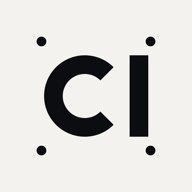
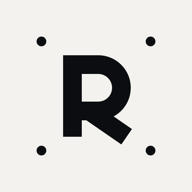
Renommage : Coach IA devient Rush (titre, PWA, en-tête, connexion, e-mails, docs), nouveau monogramme R (icônes de l'app et image des e-mails). Gardés : adresse GitHub Pages, dépôt, clés de stockage, Edge Function coach-ai

Changed region(s): [[0.2188, 0.2812, 0.7812, 0.75]]

diff --git a/supabase/email-templates/invite.html b/supabase/email-templates/invite.html
@@ -1,19 +1,19 @@
 <!doctype html>
-<html lang="fr"><head><meta charset="utf-8"><meta name="viewport" content="width=device-width,initial-scale=1"><title>Coach IA</title></head>
+<html lang="fr"><head><meta charset="utf-8"><meta name="viewport" content="width=device-width,initial-scale=1"><title>Rush</title></head>
 <body style="margin:0;padding:0;background:#0c0d10;">
 <table role="presentation" width="100%" cellpadding="0" cellspacing="0" border="0" bgcolor="#0c0d10" style="background:#0c0d10;font-family:Arial,Helvetica,sans-serif;"><tr><td align="center">
 <table role="presentation" width="560" cellpadding="0" cellspacing="0" border="0" style="width:100%;max-width:560px;">
-<tr><td style="padding:0;"><img src="https://yanisjaber.github.io/coach-ia/_mail/hero-2.png" width="560" alt="Coach IA : tous tes sports, un seul endroit" style="display:block;width:100%;height:auto;border:0;"></td></tr>
+<tr><td style="padding:0;"><img src="https://yanisjaber.github.io/coach-ia/_mail/hero-2.png" width="560" alt="Rush : tous tes sports, un seul endroit" style="display:block;width:100%;height:auto;border:0;"></td></tr>
 <tr><td bgcolor="#14161b" style="padding:34px 28px 10px;background:#14161b;">
  <h1 style="margin:0 0 12px;font-family:Impact,'Arial Black',Arial,sans-serif;font-style:italic;text-transform:uppercase;font-size:34px;line-height:1.05;font-weight:900;letter-spacing:.5px;color:#f3f2ee;">Tu es invité</h1>
- <p style="margin:0 0 26px;font-size:16px;line-height:1.55;color:#c9ced8;">On t'a invité à rejoindre Coach IA : tout ton entraînement, tous tes sports, au même endroit. Clique sur le bouton pour créer ton accès.</p>
+ <p style="margin:0 0 26px;font-size:16px;line-height:1.55;color:#c9ced8;">On t'a invité à rejoindre Rush : tout ton entraînement, tous tes sports, au même endroit. Clique sur le bouton pour créer ton accès.</p>
  <table role="presentation" cellpadding="0" cellspacing="0" border="0"><tr><td bgcolor="#4f8cff" style="background:#4f8cff;border-radius:6px;"><a href="{{ .ConfirmationURL }}" style="display:inline-block;padding:17px 32px;font-family:Impact,'Arial Black',Arial,sans-serif;font-size:18px;letter-spacing:2px;text-transform:uppercase;color:#0c0d10;text-decoration:none;">Accepter l'invitation &rarr;</a></td></tr></table>
  <p style="margin:26px 0 0;font-size:13px;line-height:1.5;color:#a2a7b3;">Le bouton ne marche pas ? Copie ce lien dans ton navigateur :<br><span style="word-break:break-all;color:#f3f2ee;">{{ .ConfirmationURL }}</span></p>
  <p style="margin:16px 0 26px;font-size:13px;line-height:1.5;color:#a2a7b3;">Tu ne connais pas cette invitation ? Ignore simplement cet e-mail.</p>
 </td></tr>
 <tr><td height="5" bgcolor="#4f8cff" style="height:5px;background:#4f8cff;font-size:0;line-height:0;">&nbsp;</td></tr>
 <tr><td align="center" style="padding:24px 24px 40px;font-size:12px;line-height:1.7;color:#868c9a;">
- Tu reçois cet e-mail parce qu'il concerne ton compte Coach IA ({{ .Email }}).<br>
+ Tu reçois cet e-mail parce qu'il concerne ton compte Rush ({{ .Email }}).<br>
  <a href="https://yanisjaber.github.io/coach-ia/#/confidentialite" style="color:#868c9a;text-decoration:underline;">Confidentialité</a> &nbsp;·&nbsp; <a href="mailto:yanisjaber23@gmail.com" style="color:#868c9a;text-decoration:underline;">Nous contacter</a><br>
- © 2026 Coach IA. Tous droits réservés.
+ © 2026 Rush. Tous droits réservés.
 </td></tr></table></td></tr></table></body></html>

diff --git a/supabase/email-templates/password-changed.html b/supabase/email-templates/password-changed.html
@@ -1,18 +1,18 @@
 <!doctype html>
-<html lang="fr"><head><meta charset="utf-8"><meta name="viewport" content="width=device-width,initial-scale=1"><title>Coach IA</title></head>
+<html lang="fr"><head><meta charset="utf-8"><meta name="viewport" content="width=device-width,initial-scale=1"><title>Rush</title></head>
 <body style="margin:0;padding:0;background:#0c0d10;">
 <table role="presentation" width="100%" cellpadding="0" cellspacing="0" border="0" bgcolor="#0c0d10" style="background:#0c0d10;font-family:Arial,Helvetica,sans-serif;"><tr><td align="center">
 <table role="presentation" width="560" cellpadding="0" cellspacing="0" border="0" style="width:100%;max-width:560px;">
-<tr><td style="padding:0;"><img src="https://yanisjaber.github.io/coach-ia/_mail/hero-2.png" width="560" alt="Coach IA : tous tes sports, un seul endroit" style="display:block;width:100%;height:auto;border:0;"></td></tr>
+<tr><td style="padding:0;"><img src="https://yanisjaber.github.io/coach-ia/_mail/hero-2.png" width="560" alt="Rush : tous tes sports, un seul endroit" style="display:block;width:100%;height:auto;border:0;"></td></tr>
 <tr><td bgcolor="#14161b" style="padding:34px 28px 10px;background:#14161b;">
  <h1 style="margin:0 0 12px;font-family:Impact,'Arial Black',Arial,sans-serif;font-style:italic;text-transform:uppercase;font-size:34px;line-height:1.05;font-weight:900;letter-spacing:.5px;color:#f3f2ee;">Mot de passe modifié</h1>
- <p style="margin:0 0 26px;font-size:16px;line-height:1.55;color:#c9ced8;">Le mot de passe de ton compte Coach IA vient d'être modifié.</p>
+ <p style="margin:0 0 26px;font-size:16px;line-height:1.55;color:#c9ced8;">Le mot de passe de ton compte Rush vient d'être modifié.</p>
  
  <p style="margin:16px 0 26px;font-size:13px;line-height:1.5;color:#a2a7b3;">Ce n'était pas toi ? Va sur l'écran de connexion, clique sur « Mot de passe oublié ? » pour en choisir un nouveau, puis écris-nous à yanisjaber23@gmail.com.</p>
 </td></tr>
 <tr><td height="5" bgcolor="#4f8cff" style="height:5px;background:#4f8cff;font-size:0;line-height:0;">&nbsp;</td></tr>
 <tr><td align="center" style="padding:24px 24px 40px;font-size:12px;line-height:1.7;color:#868c9a;">
- Tu reçois cet e-mail parce qu'il concerne ton compte Coach IA ({{ .Email }}).<br>
+ Tu reçois cet e-mail parce qu'il concerne ton compte Rush ({{ .Email }}).<br>
  <a href="https://yanisjaber.github.io/coach-ia/#/confidentialite" style="color:#868c9a;text-decoration:underline;">Confidentialité</a> &nbsp;·&nbsp; <a href="mailto:yanisjaber23@gmail.com" style="color:#868c9a;text-decoration:underline;">Nous contacter</a><br>
- © 2026 Coach IA. Tous droits réservés.
+ © 2026 Rush. Tous droits réservés.
 </td></tr></table></td></tr></table></body></html>

diff --git a/supabase/email-templates/email-changed.html b/supabase/email-templates/email-changed.html
@@ -1,18 +1,18 @@
 <!doctype html>
-<html lang="fr"><head><meta charset="utf-8"><meta name="viewport" content="width=device-width,initial-scale=1"><title>Coach IA</title></head>
+<html lang="fr"><head><meta charset="utf-8"><meta name="viewport" content="width=device-width,initial-scale=1"><title>Rush</title></head>
 <body style="margin:0;padding:0;background:#0c0d10;">
 <table role="presentation" width="100%" cellpadding="0" cellspacing="0" border="0" bgcolor="#0c0d10" style="background:#0c0d10;font-family:Arial,Helvetica,sans-serif;"><tr><td align="center">
 <table role="presentation" width="560" cellpadding="0" cellspacing="0" border="0" style="width:100%;max-width:560px;">
-<tr><td style="padding:0;"><img src="https://yanisjaber.github.io/coach-ia/_mail/hero-2.png" width="560" alt="Coach IA : tous tes sports, un seul endroit" style="display:block;width:100%;height:auto;border:0;"></td></tr>
+<tr><td style="padding:0;"><img src="https://yanisjaber.github.io/coach-ia/_mail/hero-2.png" width="560" alt="Rush : tous tes sports, un seul endroit" style="display:block;width:100%;height:auto;border:0;"></td></tr>
 <tr><td bgcolor="#14161b" style="padding:34px 28px 10px;background:#14161b;">
  <h1 style="margin:0 0 12px;font-family:Impact,'Arial Black',Arial,sans-serif;font-style:italic;text-transform:uppercase;font-size:34px;line-height:1.05;font-weight:900;letter-spacing:.5px;color:#f3f2ee;">Adresse e-mail modifiée</h1>
- <p style="margin:0 0 26px;font-size:16px;line-height:1.55;color:#c9ced8;">L'adresse e-mail de ton compte Coach IA vient d'être modifiée.</p>
+ <p style="margin:0 0 26px;font-size:16px;line-height:1.55;color:#c9ced8;">L'adresse e-mail de ton compte Rush vient d'être modifiée.</p>
  
  <p style="margin:16px 0 26px;font-size:13px;line-height:1.5;color:#a2a7b3;">Ce n'était pas toi ? Écris-nous tout de suite à yanisjaber23@gmail.com.</p>
 </td></tr>
 <tr><td height="5" bgcolor="#4f8cff" style="height:5px;background:#4f8cff;font-size:0;line-height:0;">&nbsp;</td></tr>
 <tr><td align="center" style="padding:24px 24px 40px;font-size:12px;line-height:1.7;color:#868c9a;">
- Tu reçois cet e-mail parce qu'il concerne ton compte Coach IA ({{ .Email }}).<br>
+ Tu reçois cet e-mail parce qu'il concerne ton compte Rush ({{ .Email }}).<br>
  <a href="https://yanisjaber.github.io/coach-ia/#/confidentialite" style="color:#868c9a;text-decoration:underline;">Confidentialité</a> &nbsp;·&nbsp; <a href="mailto:yanisjaber23@gmail.com" style="color:#868c9a;text-decoration:underline;">Nous contacter</a><br>
- © 2026 Coach IA. Tous droits réservés.
+ © 2026 Rush. Tous droits réservés.
 </td></tr></table></td></tr></table></body></html>

diff --git a/supabase/email-templates/confirm-signup.html b/supabase/email-templates/confirm-signup.html
@@ -1,9 +1,9 @@
 <!doctype html>
-<html lang="fr"><head><meta charset="utf-8"><meta name="viewport" content="width=device-width,initial-scale=1"><title>Coach IA</title></head>
+<html lang="fr"><head><meta charset="utf-8"><meta name="viewport" content="width=device-width,initial-scale=1"><title>Rush</title></head>
 <body style="margin:0;padding:0;background:#0c0d10;">
 <table role="presentation" width="100%" cellpadding="0" cellspacing="0" border="0" bgcolor="#0c0d10" style="background:#0c0d10;font-family:Arial,Helvetica,sans-serif;"><tr><td align="center">
 <table role="presentation" width="560" cellpadding="0" cellspacing="0" border="0" style="width:100%;max-width:560px;">
-<tr><td style="padding:0;"><img src="https://yanisjaber.github.io/coach-ia/_mail/hero-2.png" width="560" alt="Coach IA : tous tes sports, un seul endroit" style="display:block;width:100%;height:auto;border:0;"></td></tr>
+<tr><td style="padding:0;"><img src="https://yanisjaber.github.io/coach-ia/_mail/hero-2.png" width="560" alt="Rush : tous tes sports, un seul endroit" style="display:block;width:100%;height:auto;border:0;"></td></tr>
 <tr><td bgcolor="#14161b" style="padding:34px 28px 10px;background:#14161b;">
  <h1 style="margin:0 0 12px;font-family:Impact,'Arial Black',Arial,sans-serif;font-style:italic;text-transform:uppercase;font-size:34px;line-height:1.05;font-weight:900;letter-spacing:.5px;color:#f3f2ee;">Confirme ton compte</h1>
  <p style="margin:0 0 26px;font-size:16px;line-height:1.55;color:#c9ced8;">Course, vélo, natation, muscu : tout ton entraînement au même endroit. Confirme ton adresse e-mail pour activer ton compte.</p>
@@ -13,7 +13,7 @@
 </td></tr>
 <tr><td height="5" bgcolor="#4f8cff" style="height:5px;background:#4f8cff;font-size:0;line-height:0;">&nbsp;</td></tr>
 <tr><td align="center" style="padding:24px 24px 40px;font-size:12px;line-height:1.7;color:#868c9a;">
- Tu reçois cet e-mail parce qu'il concerne ton compte Coach IA ({{ .Email }}).<br>
+ Tu reçois cet e-mail parce qu'il concerne ton compte Rush ({{ .Email }}).<br>
  <a href="https://yanisjaber.github.io/coach-ia/#/confidentialite" style="color:#868c9a;text-decoration:underline;">Confidentialité</a> &nbsp;·&nbsp; <a href="mailto:yanisjaber23@gmail.com" style="color:#868c9a;text-decoration:underline;">Nous contacter</a><br>
- © 2026 Coach IA. Tous droits réservés.
+ © 2026 Rush. Tous droits réservés.
 </td></tr></table></td></tr></table></body></html>

diff --git a/supabase/email-templates/recovery.html b/supabase/email-templates/recovery.html
@@ -1,9 +1,9 @@
 <!doctype html>
-<html lang="fr"><head><meta charset="utf-8"><meta name="viewport" content="width=device-width,initial-scale=1"><title>Coach IA</title></head>
+<html lang="fr"><head><meta charset="utf-8"><meta name="viewport" content="width=device-width,initial-scale=1"><title>Rush</title></head>
 <body style="margin:0;padding:0;background:#0c0d10;">
 <table role="presentation" width="100%" cellpadding="0" cellspacing="0" border="0" bgcolor="#0c0d10" style="background:#0c0d10;font-family:Arial,Helvetica,sans-serif;"><tr><td align="center">
 <table role="presentation" width="560" cellpadding="0" cellspacing="0" border="0" style="width:100%;max-width:560px;">
-<tr><td style="padding:0;"><img src="https://yanisjaber.github.io/coach-ia/_mail/hero-2.png" width="560" alt="Coach IA : tous tes sports, un seul endroit" style="display:block;width:100%;height:auto;border:0;"></td></tr>
+<tr><td style="padding:0;"><img src="https://yanisjaber.github.io/coach-ia/_mail/hero-2.png" width="560" alt="Rush : tous tes sports, un seul endroit" style="display:block;width:100%;height:auto;border:0;"></td></tr>
 <tr><td bgcolor="#14161b" style="padding:34px 28px 10px;background:#14161b;">
  <h1 style="margin:0 0 12px;font-family:Impact,'Arial Black',Arial,sans-serif;font-style:italic;text-transform:uppercase;font-size:34px;line-height:1.05;font-weight:900;letter-spacing:.5px;color:#f3f2ee;">Nouveau mot de passe</h1>
  <p style="margin:0 0 26px;font-size:16px;line-height:1.55;color:#c9ced8;">Tu as demandé à changer ton mot de passe. Clique sur le bouton pour en choisir un nouveau (le lien est valable une heure).</p>
@@ -13,7 +13,7 @@
 </td></tr>
 <tr><td height="5" bgcolor="#4f8cff" style="height:5px;background:#4f8cff;font-size:0;line-height:0;">&nbsp;</td></tr>
 <tr><td align="center" style="padding:24px 24px 40px;font-size:12px;line-height:1.7;color:#868c9a;">
- Tu reçois cet e-mail parce qu'il concerne ton compte Coach IA ({{ .Email }}).<br>
+ Tu reçois cet e-mail parce qu'il concerne ton compte Rush ({{ .Email }}).<br>
  <a href="https://yanisjaber.github.io/coach-ia/#/confidentialite" style="color:#868c9a;text-decoration:underline;">Confidentialité</a> &nbsp;·&nbsp; <a href="mailto:yanisjaber23@gmail.com" style="color:#868c9a;text-decoration:underline;">Nous contacter</a><br>
- © 2026 Coach IA. Tous droits réservés.
+ © 2026 Rush. Tous droits réservés.
 </td></tr></table></td></tr></table></body></html>

diff --git a/app/src/lib/parametres/General.svelte b/app/src/lib/parametres/General.svelte
@@ -37,7 +37,7 @@
     if (export_.enCours) return;
     export_ = { enCours: true, message: '' };
     const r = await exporterMesDonnees(auth.session?.user?.id, auth.session?.user?.email || '');
-    telechargerJson(r.contenu, `coach-ia-mes-donnees-${new Date().toISOString().slice(0, 10)}.json`);
+    telechargerJson(r.contenu, `rush-mes-donnees-${new Date().toISOString().slice(0, 10)}.json`);
     export_ = {
       enCours: false,
       message: r.avertissements.length ? `Fichier téléchargé. Ces parties n'ont pas pu être lues : ${r.avertissements.join(', ')}.` : 'Fichier téléchargé.',
@@ -127,7 +127,7 @@
     </div>
   {:else}
     <form class="suppr-form" onsubmit={supprimer}>
-      <p class="suppr-texte"><strong>Action définitive.</strong> Ton compte, tes séances, ton sommeil, tes programmes, tes tests et tous tes réglages seront effacés, et l'accès de Coach IA à ton compte Strava sera retiré. Il n'y a aucun retour en arrière : pense à exporter tes données avant.</p>
+      <p class="suppr-texte"><strong>Action définitive.</strong> Ton compte, tes séances, ton sommeil, tes programmes, tes tests et tous tes réglages seront effacés, et l'accès de Rush à ton compte Strava sera retiré. Il n'y a aucun retour en arrière : pense à exporter tes données avant.</p>
       <label class="suppr-label" for="confirmer-suppression">Pour confirmer, tape <strong>SUPPRIMER</strong></label>
       <input id="confirmer-suppression" class="suppr-champ" type="text" autocomplete="off" autocapitalize="characters" spellcheck="false" bind:value={suppression.texte} />
       {#if suppression.message}<p class="suppr-erreur" role="alert">{suppression.message}</p>{/if}

diff --git a/app/src/routes/Connexion.svelte b/app/src/routes/Connexion.svelte
@@ -85,8 +85,8 @@
 <main class="connexion">
   <div class="gauche">
     <div class="marque">
-      <span class="logo titre">CI</span>
-      <span class="nom">Coach IA</span>
+      <span class="logo titre">R</span>
+      <span class="nom">Rush</span>
     </div>
     <h1 class="titre">Ton entraînement,<br />enfin lisible.</h1>
     <p class="accroche">Charge, forme, objectifs et records, pour tous tes sports, au même endroit.</p>
@@ -152,7 +152,7 @@
   {#snippet icone()}
     <svg width="38" height="38" viewBox="0 0 24 24" fill="none" stroke="currentColor" stroke-width="2.2" stroke-linecap="round" stroke-linejoin="round"><circle cx="12" cy="8" r="4" /><path d="M4.5 20c.8-4 3.7-6 7.5-6s6.7 2 7.5 6" /></svg>
   {/snippet}
-  <p class="pop-texte">L'adresse <span class="pop-email">{email}</span> est déjà inscrite sur Coach IA.</p>
+  <p class="pop-texte">L'adresse <span class="pop-email">{email}</span> est déjà inscrite sur Rush.</p>
   <p class="pop-note">Connecte-toi avec ton mot de passe. Tu l'as oublié ? On t'envoie un lien pour en choisir un nouveau.</p>
   <button type="button" class="pop-bouton" onclick={versConnexion}>Me connecter</button>
   <button type="button" class="pop-lien" onclick={versOubli}>Mot de passe oublié ?</button>

diff --git a/app/src/lib/data/export.js b/app/src/lib/data/export.js
@@ -42,13 +42,13 @@ async function lireTable(userId, table, colonnes, avertissements) {
 /** Rassemble les données de l'utilisateur. Renvoie { contenu, avertissements } (contenu = objet prêt à sérialiser). */
 export async function exporterMesDonnees(userId, email = '') {
   const avertissements = [];
-  const contenu = { application: 'Coach IA', exporte_le: new Date().toISOString(), compte: { email } };
+  const contenu = { application: 'Rush', exporte_le: new Date().toISOString(), compte: { email } };
   for (const [cle, table, colonnes] of TABLES) contenu[cle] = await lireTable(userId, table, colonnes, avertissements);
   return { contenu, avertissements };
 }
 
 /** Télécharge le contenu comme fichier JSON (le fichier reste sur l'appareil : rien n'est envoyé ailleurs). */
-export function telechargerJson(contenu, nom = 'coach-ia-mes-donnees.json') {
+export function telechargerJson(contenu, nom = 'rush-mes-donnees.json') {
   const blob = new Blob([JSON.stringify(contenu, null, 2)], { type: 'application/json' });
   const url = URL.createObjectURL(blob);
   const a = document.createElement('a');

diff --git a/app/index.html b/app/index.html
@@ -4,15 +4,15 @@
     <meta charset="utf-8" />
     <meta name="viewport" content="width=device-width, initial-scale=1, viewport-fit=cover" />
     <meta name="theme-color" content="#0C0D10" />
-    <meta name="description" content="Coach IA : entraînement, récupération et compétitions." />
+    <meta name="description" content="Rush : entraînement, récupération et compétitions." />
     <meta name="apple-mobile-web-app-capable" content="yes" />
     <meta name="mobile-web-app-capable" content="yes" />
-    <meta name="apple-mobile-web-app-title" content="Coach IA" />
+    <meta name="apple-mobile-web-app-title" content="Rush" />
     <meta name="apple-mobile-web-app-status-bar-style" content="black-translucent" />
     <link rel="manifest" href="/manifest.webmanifest" />
     <link rel="icon" type="image/svg+xml" href="/icone.svg" />
     <link rel="apple-touch-icon" href="/icone-apple-180.png" />
-    <title>Coach IA</title>
+    <title>Rush</title>
   </head>
   <body>
     <div id="app"></div>

diff --git a/app/src/lib/parametres/Confidentialite.svelte b/app/src/lib/parametres/Confidentialite.svelte
@@ -1,5 +1,5 @@
 <script>
-  // Texte de la politique de confidentialité : ce que Coach IA enregistre, où, qui y accède, et comment récupérer ou
+  // Texte de la politique de confidentialité : ce que Rush enregistre, où, qui y accède, et comment récupérer ou
   // supprimer ses données. Utilisé dans Paramètres › Confidentialité et sur la page publique #/confidentialite.
   // La date de mise à jour est à changer à chaque modification du texte.
   export const DATE_MAJ = '13 octobre 2026';
@@ -11,7 +11,7 @@
 <div class="texte">
   <section>
     <h2>Qui est derrière l'app</h2>
-    <p>Coach IA est un projet personnel, géré par Yanis. Ce n'est pas une entreprise : pas de publicité, pas de revente de données, pas de suivi de ton comportement.</p>
+    <p>Rush est un projet personnel, géré par Yanis. Ce n'est pas une entreprise : pas de publicité, pas de revente de données, pas de suivi de ton comportement.</p>
   </section>
 
   <section>

diff --git a/app/src/routes/DefinirMotDePasse.svelte b/app/src/routes/DefinirMotDePasse.svelte
@@ -30,7 +30,7 @@
 
 <main class="page-mdp">
   <form class="formulaire" onsubmit={envoyer}>
-    <div class="marque"><span class="logo titre">CI</span><span class="nom">Coach IA</span></div>
+    <div class="marque"><span class="logo titre">R</span><span class="nom">Rush</span></div>
     {#if fait}
       <h1 class="titre">C'est fait.</h1>
       <p class="aide" role="status">Ton mot de passe est enregistré. Tu pourras l'utiliser à ta prochaine connexion.</p>

diff --git a/app/src/lib/components/EnTete.svelte b/app/src/lib/components/EnTete.svelte
@@ -85,7 +85,7 @@
 {/snippet}
 
 <header class="barre">
-  <span class="logo titre" aria-hidden="true">CI</span>
+  <span class="logo titre" aria-hidden="true">R</span>
   <nav class="liens" class:defile aria-label="Navigation principale" bind:this={nav}>
     {#each pagesEnPlus ? debut : [...debut, ...fin] as l (l.cle)}
       <a href={lienPage(l.cle, menu.filtre)} aria-current={actif === l.cle ? 'page' : undefined}>{l.nom}</a>
